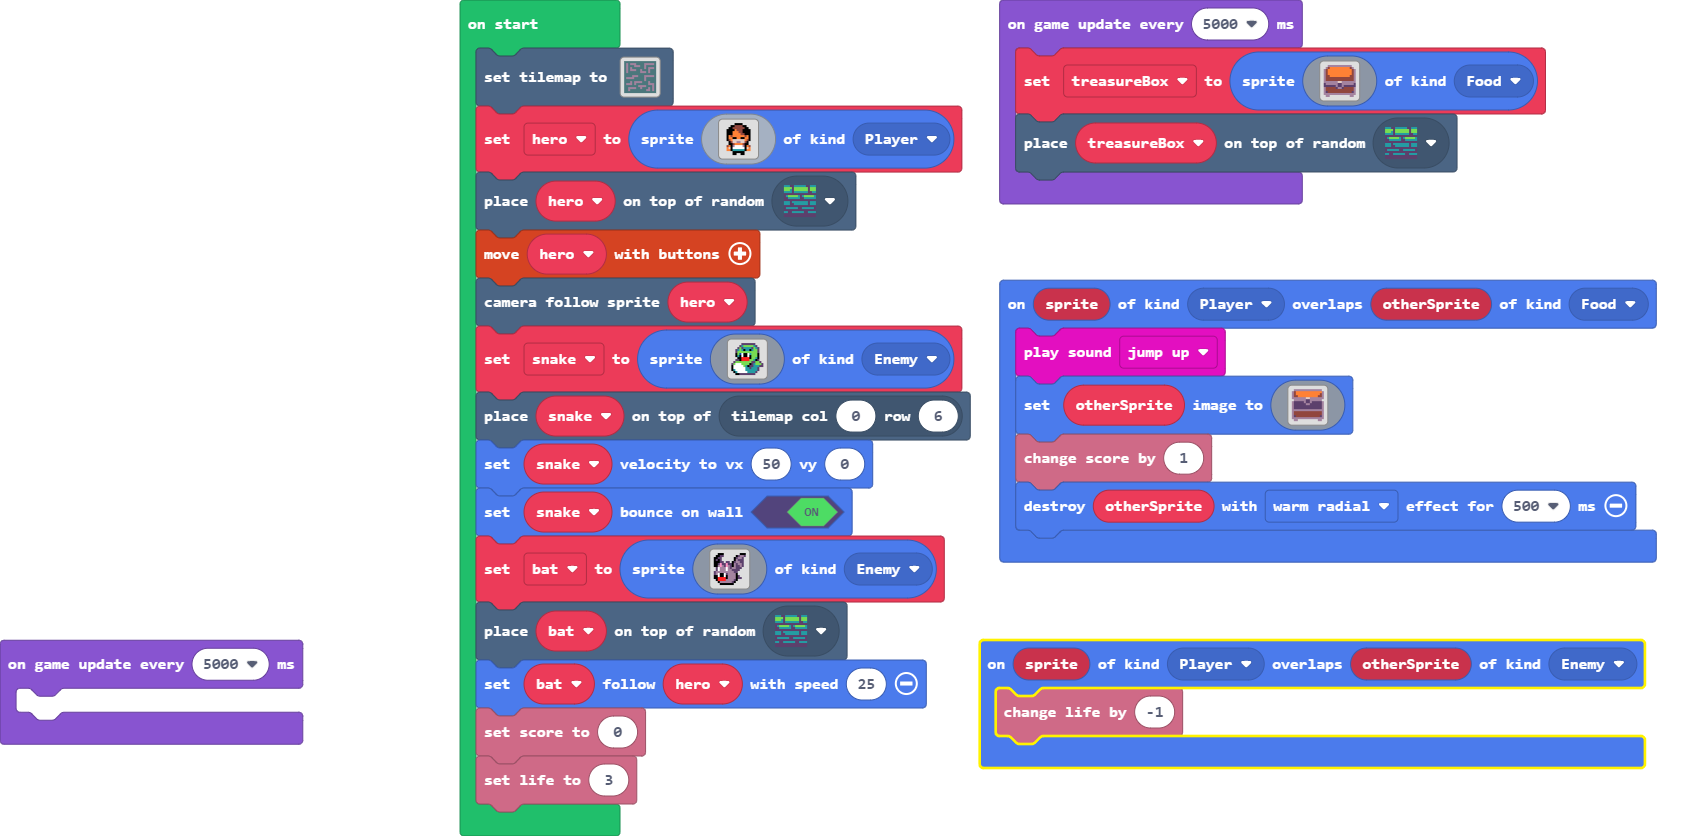
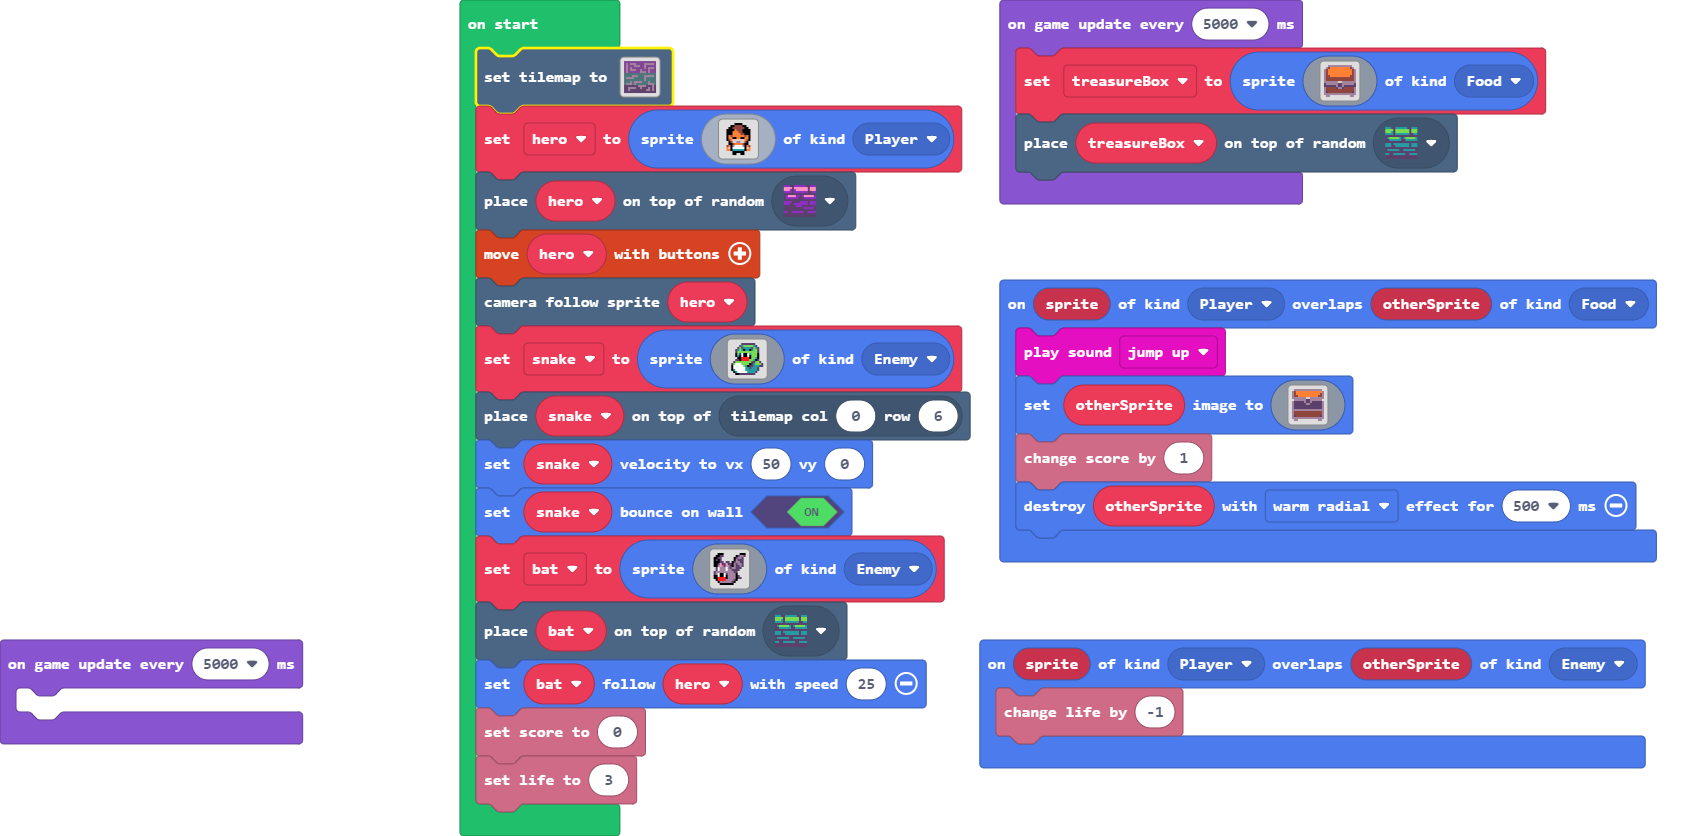
updated tile options

diff --git a/tilemap.g.ts b/tilemap.g.ts
@@ -6,7 +6,7 @@ namespace myTiles {
     helpers._registerFactory("tilemap", function(name: string) {
         switch(helpers.stringTrim(name)) {
             case "level1":
-            case "level1":return tiles.createTilemap(hex`1000100001010101010101010101010101010101010201020202010101010202020202010102010101020202010102010101010101020102010101010101020102020201010201020202010102010101020101010102010101010101020202010201010101010101010101010101010101010101010101010202020101010202020202010102020202010101010102010101010101010101010101010101020101010101010101020102020202010101020101010102020201020101010101010202020101010101010101020202020101010201010102020202010102010101020102010101020101010101010101020201020101010101010101010101010101010101`, img`
+            case "level1":return tiles.createTilemap(hex`1000100003030303030303030303030303030303030203020202030303030202020202030302030303020202030302030303030303020302030303030303020302020203030203020202030302030303020303030302030303030303020202030203030301010101010101010101010101010101010101010202020101010202020202010102020202010101010102010101010101010101010101010101020101010101010101020102020202010101020101010102020201020101010101010202020104040404040404020202020404040204040402020202040402040404020402040404020404040404040404020204020404040404040404040404040404040404`, img`
 . . . . . . . . . . . . . . . . 
 . 2 . 2 2 2 . . . . 2 2 2 2 2 . 
 . 2 . . . 2 2 2 . . 2 . . . . . 
@@ -23,7 +23,7 @@ namespace myTiles {
 . . 2 2 2 2 . . 2 . . . 2 . 2 . 
 . . 2 . . . . . . . . 2 2 . 2 . 
 . . . . . . . . . . . . . . . . 
-`, [myTiles.transparency16,sprites.dungeon.greenOuterNorth0,sprites.dungeon.floorDark2], TileScale.Sixteen);
+`, [myTiles.transparency16,sprites.dungeon.greenOuterNorth0,sprites.dungeon.floorDark2,sprites.dungeon.purpleOuterNorth1,sprites.dungeon.darkGroundNorthWest1], TileScale.Sixteen);
         }
         return null;
     })

diff --git a/main.ts b/main.ts
@@ -44,7 +44,7 @@ let hero = sprites.create(img`
     . . . f f f f f f . . . 
     . . . f f . . f f . . . 
     `, SpriteKind.Player)
-tiles.placeOnRandomTile(hero, sprites.dungeon.greenOuterNorth0)
+tiles.placeOnRandomTile(hero, sprites.dungeon.purpleOuterNorth1)
 controller.moveSprite(hero)
 scene.cameraFollowSprite(hero)
 let snake = sprites.create(img`
